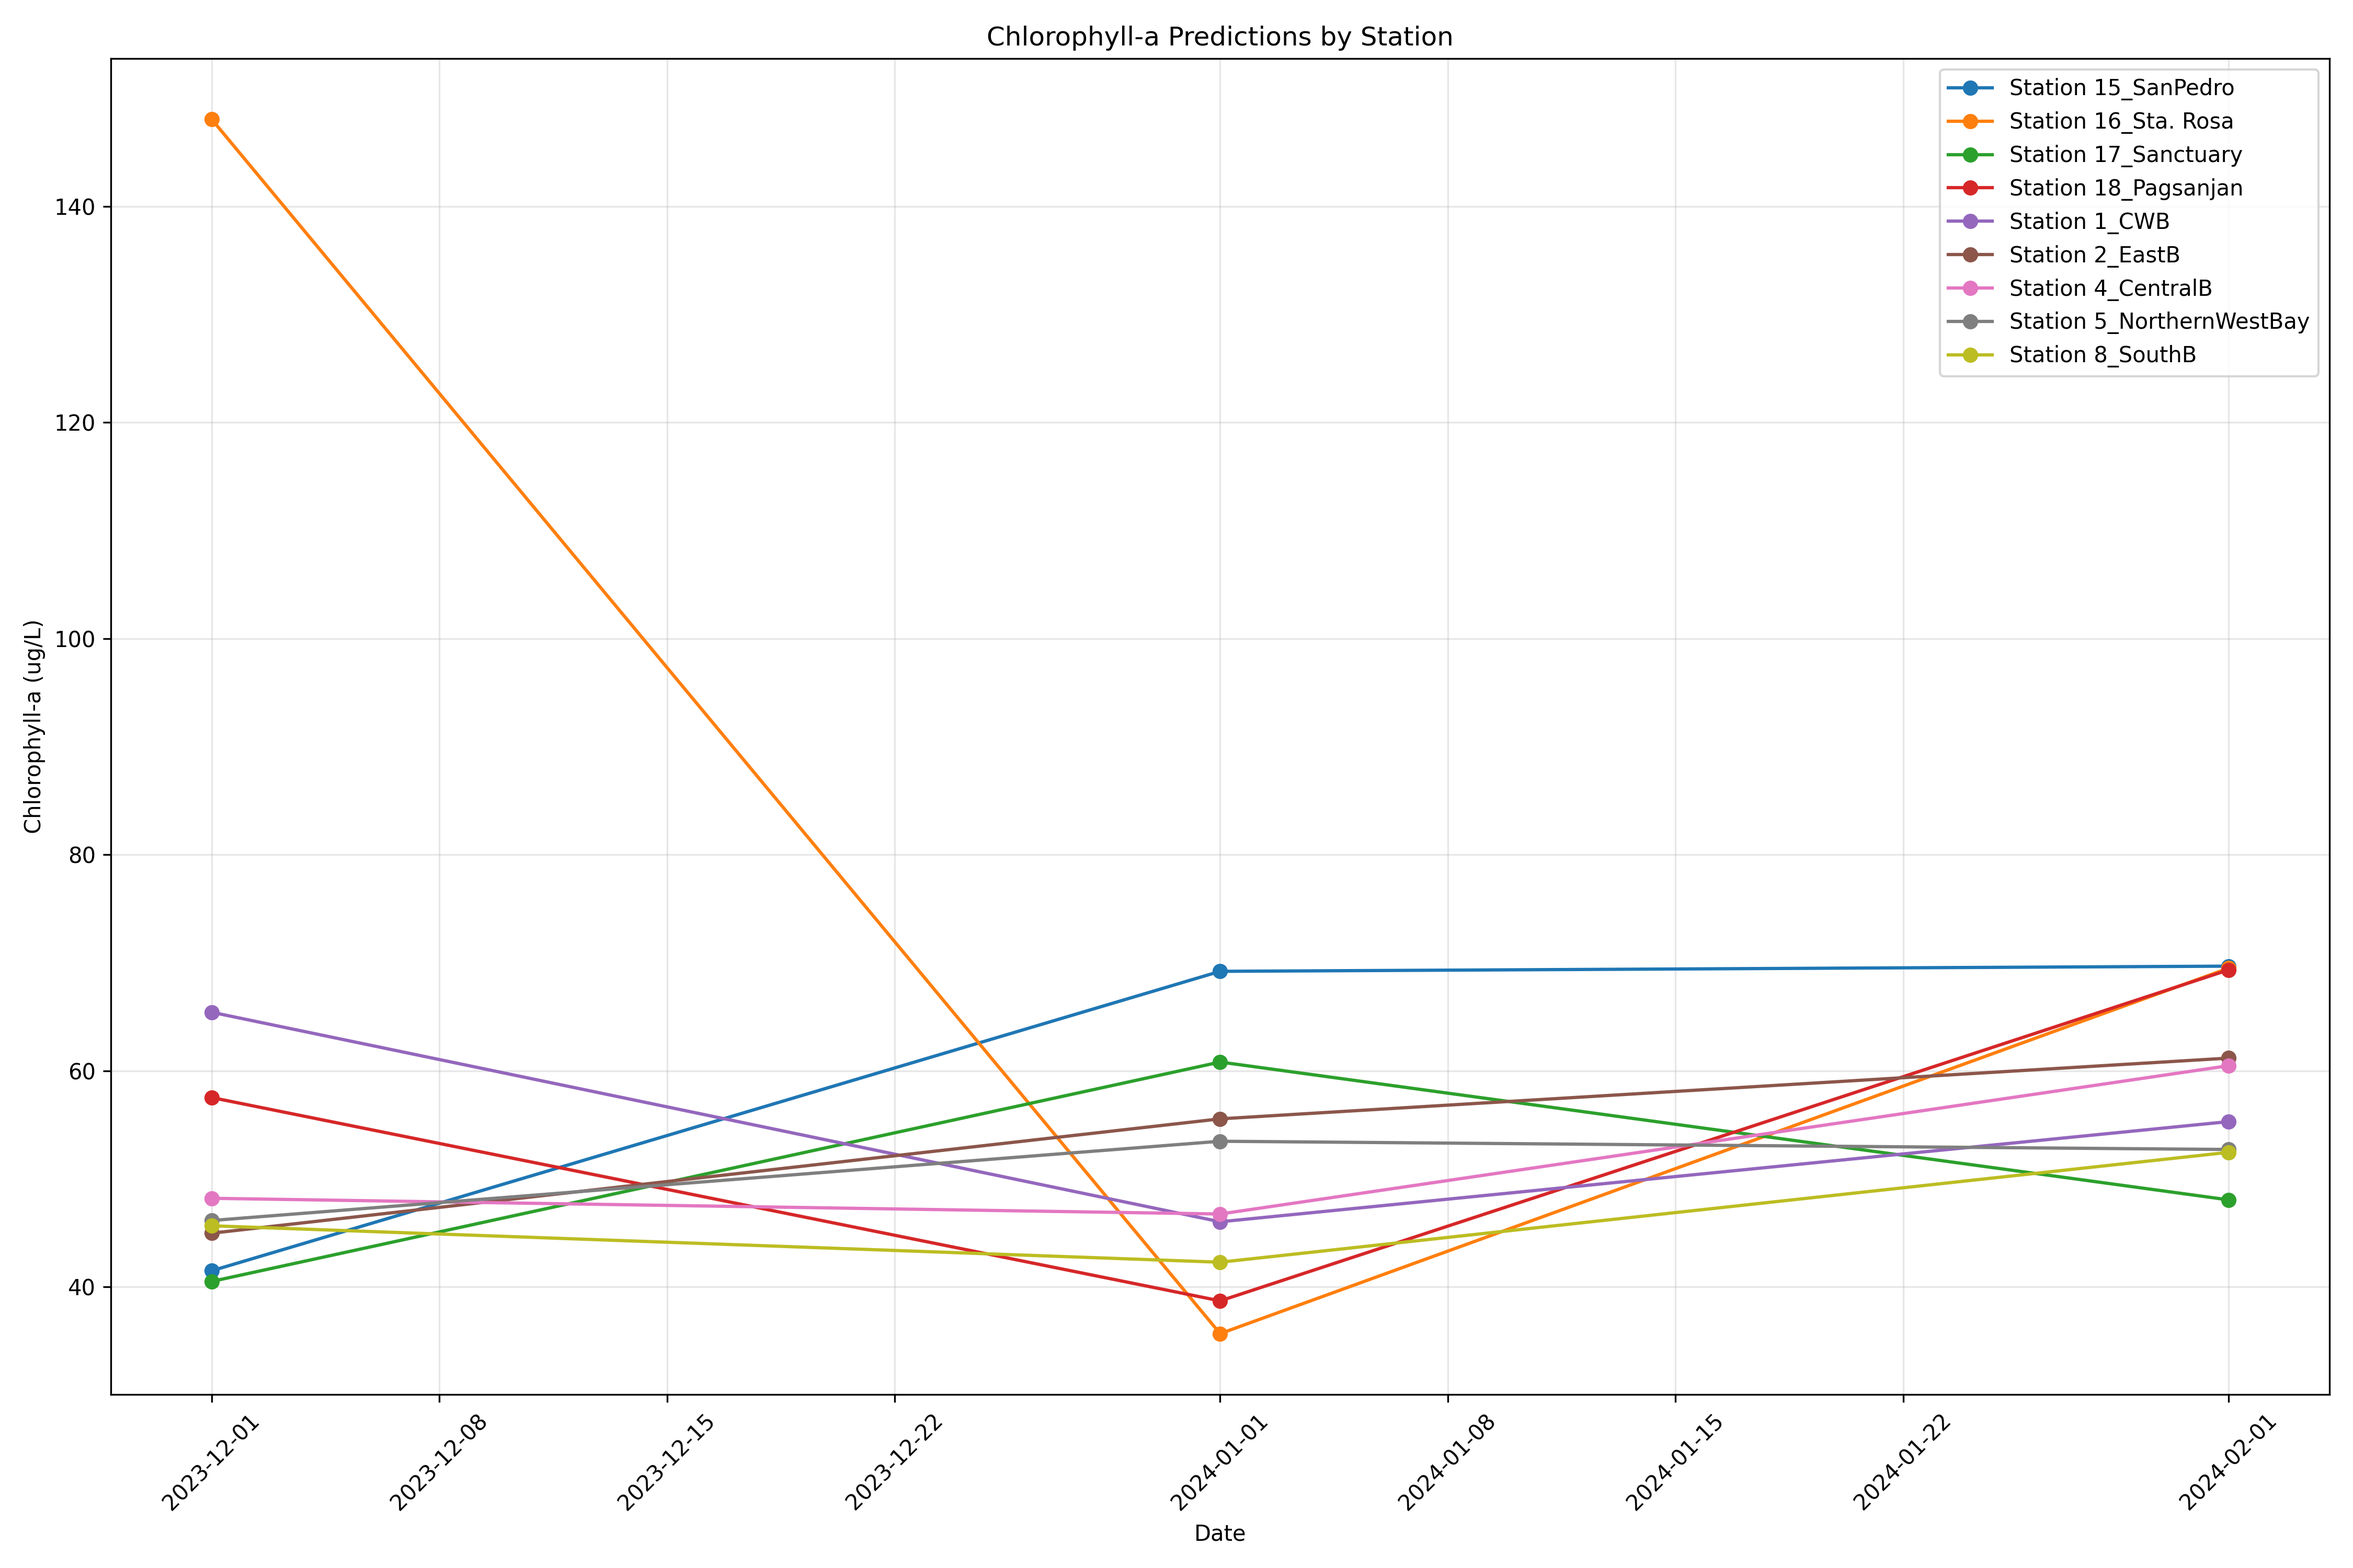
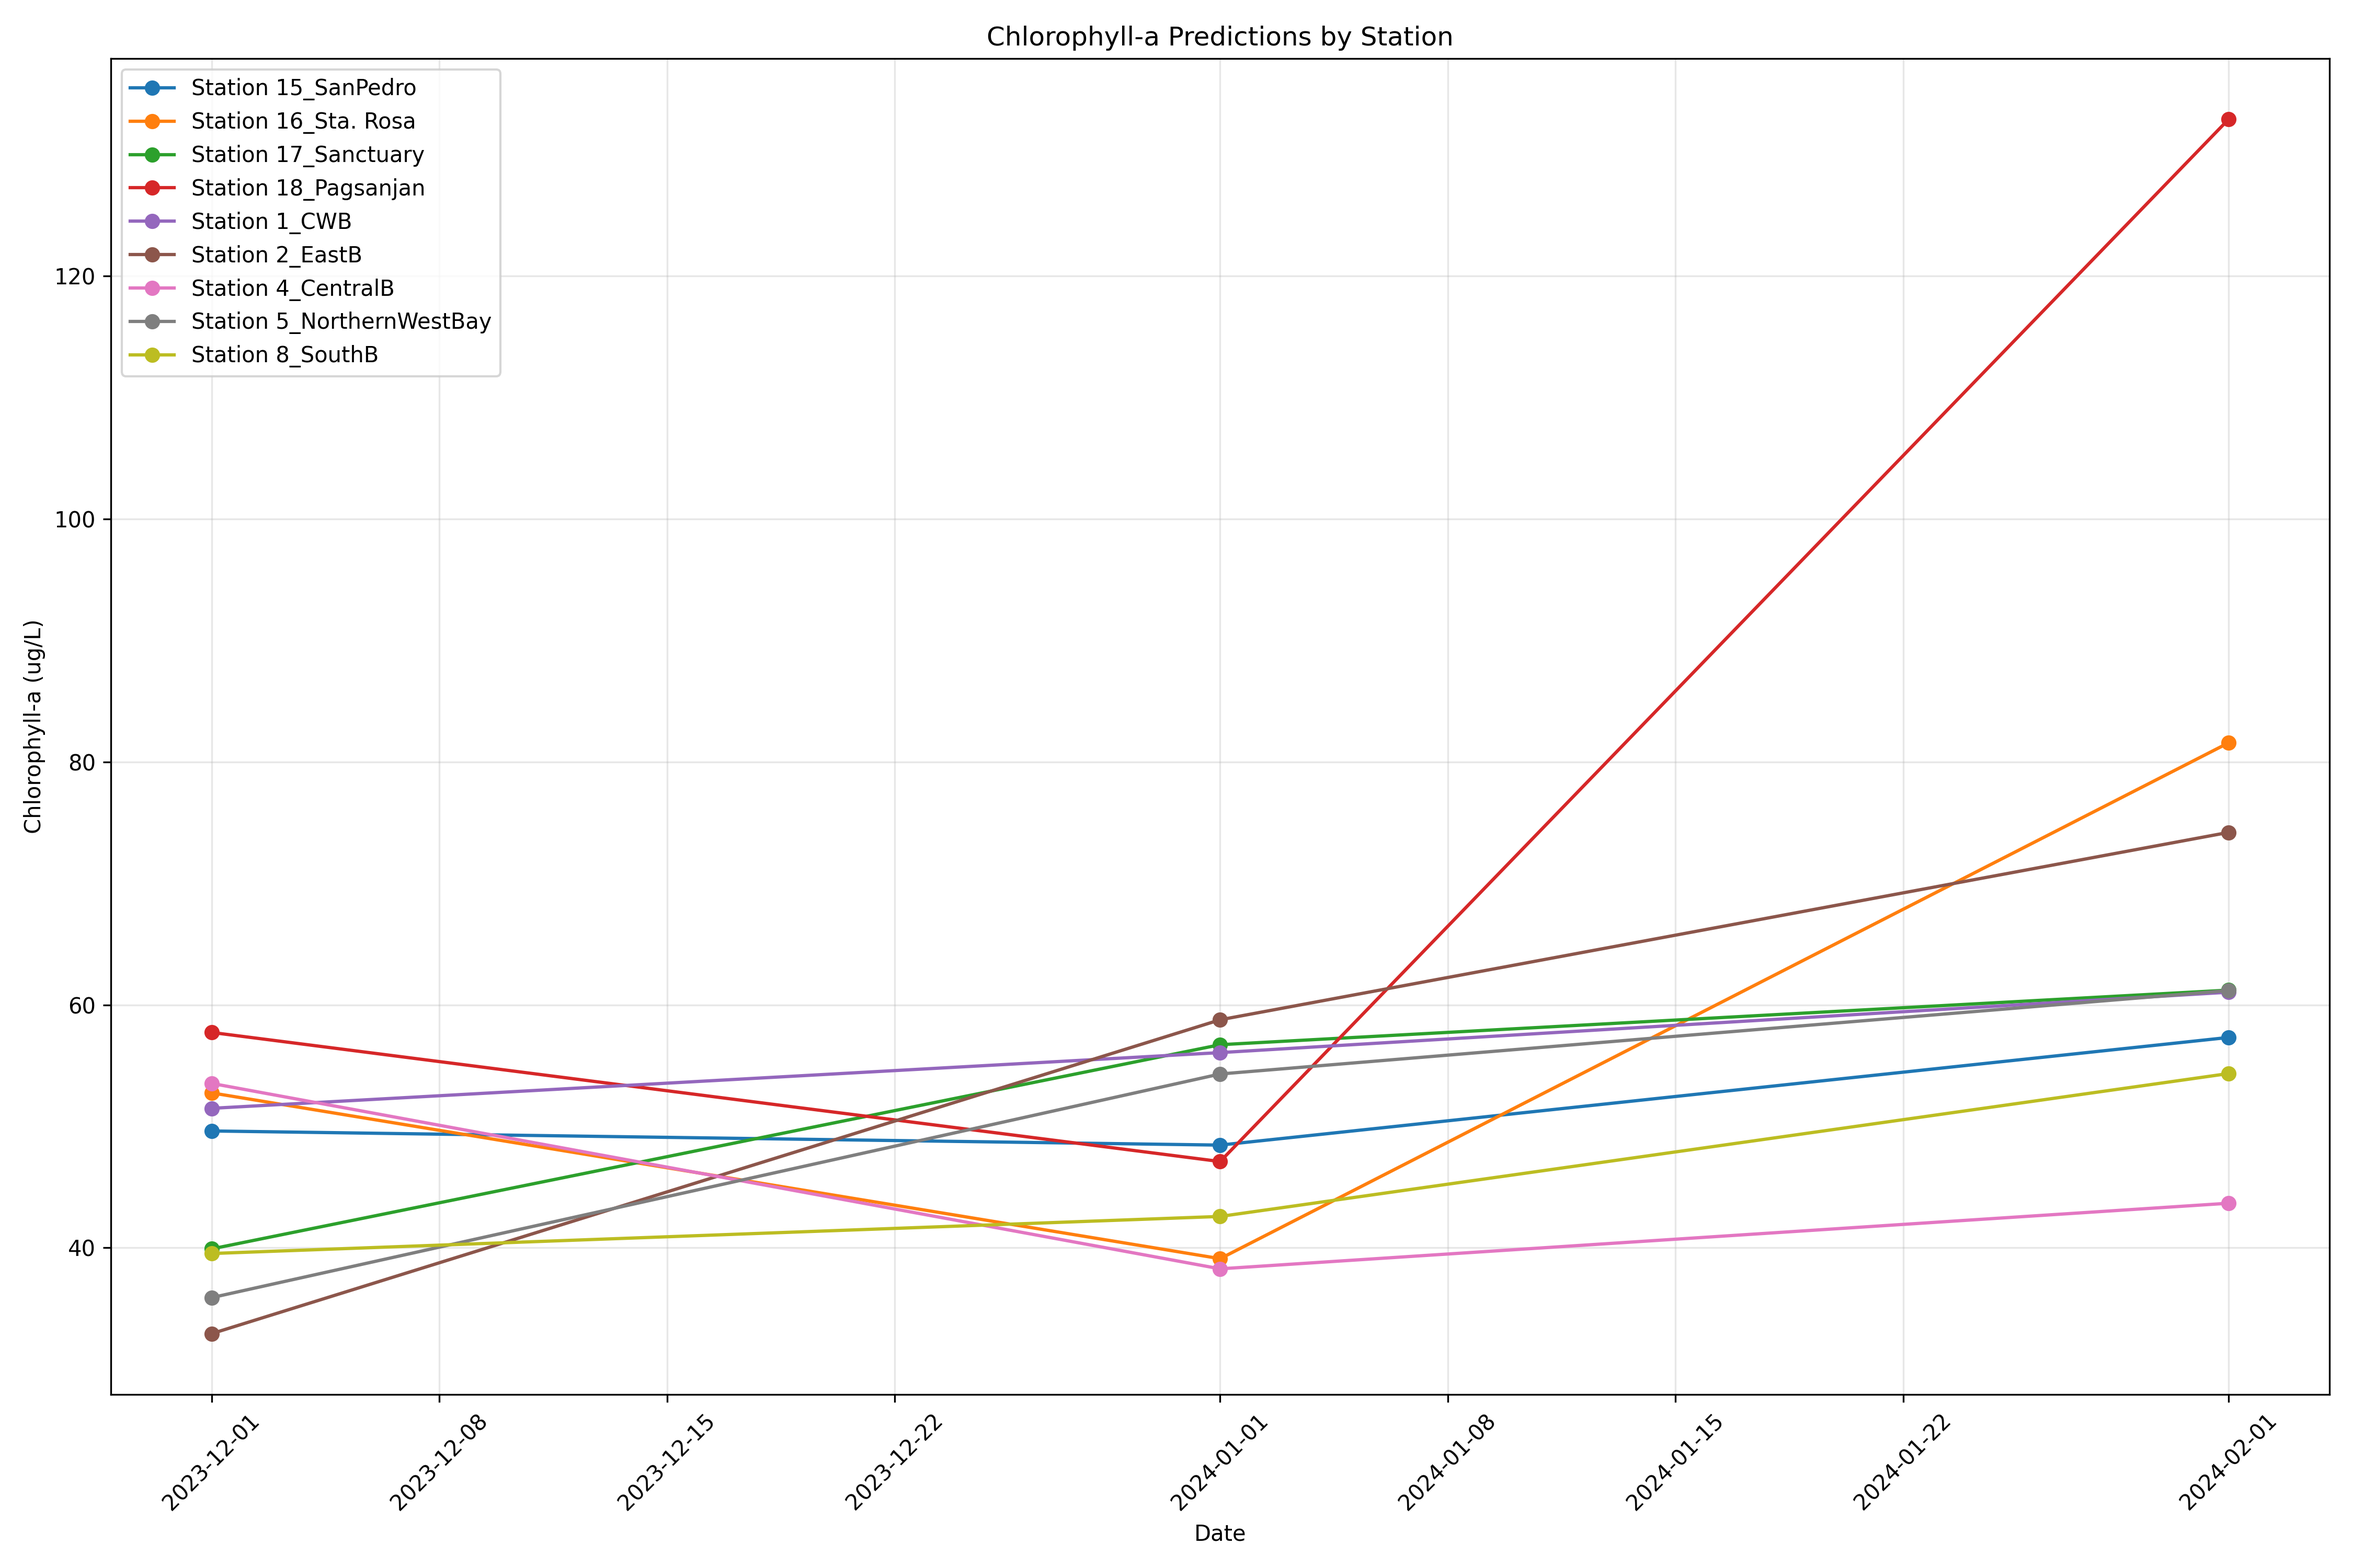
Added extremes switch

diff --git a/prediction.py b/prediction.py
@@ -27,6 +27,9 @@ class PredictionPage(ctk.CTkFrame):
         self.laguna_coords = {"lat": 14.35, "lon": 121.2}
         self.station_coords = []  
         
+        # Add extreme values toggle flag
+        self.use_extreme_values = ctk.BooleanVar(value=True)
+        
         self.data = pd.read_csv("CSV/chlorophyll_predictions_by_station.csv")
         self.data["Date"] = pd.to_datetime(self.data["Date"])
 
@@ -85,14 +88,14 @@ class PredictionPage(ctk.CTkFrame):
             fg_color="#1f6aa5",
 
         )
-        self.year_dropdown.grid(row=0, column=0, padx=5, pady=5)
+        self.year_dropdown.grid(row=0, column=1, padx=5, pady=5)
 
         self.month_label = ctk.CTkLabel(
             self.controls_container,
             text="Month :",
             font=("Segoe UI", 14)
         )
-        self.month_label.grid(row=0, column=1, padx=(10,5), pady=5)
+        self.month_label.grid(row=0, column=2, padx=(10,5), pady=5)
 
         # Month Dropdown
         self.month_var = ctk.StringVar(value=self.data["Month"].iloc[0])
@@ -107,6 +110,29 @@ class PredictionPage(ctk.CTkFrame):
             fg_color = "#1f6aa5",
         )
         self.month_dropdown.grid(row=0, column=3, padx=5, pady=5)
+
+        # Add extreme values toggle switch
+        self.extreme_values_label = ctk.CTkLabel(
+            self.controls_container,
+            text="Use Extreme Values:",
+            font=("Segoe UI", 14)
+        )
+        self.extreme_values_label.grid(row=0, column=4, padx=(20,5), pady=5)
+        
+        self.extreme_values_switch = ctk.CTkSwitch(
+            self.controls_container,
+            text="",
+            variable=self.use_extreme_values,
+            onvalue=True,
+            offvalue=False,
+            width=40,
+            height=20,
+            switch_height=16,
+            switch_width=36,
+            fg_color="#FF5555",
+            progress_color="#1f6aa5"
+        )
+        self.extreme_values_switch.grid(row=0, column=5, padx=5, pady=5)
 
         # Add buttons to the same container
         self.combined_map_button = ctk.CTkButton(
@@ -689,7 +715,11 @@ class PredictionPage(ctk.CTkFrame):
             loading_label.configure(text="Making predictions...")
             self.update()
             future_pred_df = predict_future_values(
-                retrained_model, future_df, selected_features, use_log=True
+                retrained_model, 
+                future_df, 
+                selected_features, 
+                use_log=True,
+                use_extreme_values=self.use_extreme_values.get()  # Pass the extreme values flag
             )
             
             # Add station names column
@@ -717,17 +747,26 @@ class PredictionPage(ctk.CTkFrame):
                 )
                 
                 # Sort by Station and Date
-                future_pred_df = future_pred_df.sort_values(["Station", "Date"])
+            future_pred_df = future_pred_df.sort_values(["Station", "Date"])
             
             # Plot and save results (already sorted)
             loading_label.configure(text="Generating plots and saving results...")
             self.update()
+            
+            # Display whether extreme values are being used
+            extreme_values_status = "enabled" if self.use_extreme_values.get() else "disabled"
+            loading_label.configure(
+                text=f"Generating plots and saving results...\nExtreme values are {extreme_values_status}"
+            )
+            self.update()
+            
             summary = plot_and_save_results(df, future_pred_df, target)
             
             
-            # Show completion message
+            # Show completion message with extreme values status
             loading_label.configure(
-                text="Model execution complete!\nResults saved with Station 1 first.\n"
+                text=f"Model execution complete!\nResults saved with Station 1 first.\n"
+                    f"Extreme values were {extreme_values_status}.\n"
                     "Please click 'Refresh Data' to view updated predictions."
             )
             

diff --git a/chlorophyll_forecaster.py b/chlorophyll_forecaster.py
@@ -644,11 +644,27 @@ def retrain_model_on_full_data(df, features, target, selected_features, model):
     return model, r2, rmse
 
 
-def predict_future_values(model, future_df, selected_features, use_log=True):
+def predict_future_values(model, future_df, selected_features, use_log=True, use_extreme_values=True):
     """
     Make predictions for future values
+    
+    Parameters:
+    -----------
+    model : trained model object
+        The trained machine learning model
+    future_df : pandas DataFrame
+        DataFrame containing future feature values
+    selected_features : list
+        List of selected features for the model
+    use_log : bool, default=True
+        Whether to use logarithmic transformation
+    use_extreme_values : bool, default=True
+        Whether to include extreme values in predictions or cap them
     """
     print("\n=== Making future predictions ===")
+    
+    # Show extreme values setting
+    print(f"Extreme values setting: {'enabled' if use_extreme_values else 'disabled'}")
 
     # Prepare features for prediction
     X_future = future_df[selected_features].copy()
@@ -676,6 +692,27 @@ def predict_future_values(model, future_df, selected_features, use_log=True):
     # Transform back if log was used
     if use_log:
         future_pred = np.expm1(future_pred)
+    
+    # Handle extreme values if configured not to use them
+    if not use_extreme_values:
+        # Cap predictions to reasonable range
+        # Chlorophyll typically ranges between 0-200 μg/L in lake waters
+        # Values above 150 μg/L generally indicate algal blooms
+        max_reasonable_value = 150.0
+        
+        # Apply capping
+        original_predictions = future_pred.copy()
+        future_pred = np.clip(future_pred, 0, max_reasonable_value)
+        
+        # Log info about capped values
+        num_capped = np.sum(original_predictions > max_reasonable_value)
+        if num_capped > 0:
+            print(f"Capped {num_capped} extreme predictions to {max_reasonable_value} μg/L")
+            
+            # Log some details about the most extreme values
+            extreme_indices = np.where(original_predictions > max_reasonable_value)[0]
+            for idx in extreme_indices[:min(5, len(extreme_indices))]:  # Show up to 5 examples
+                print(f"  Original: {original_predictions[idx]:.2f} μg/L → Capped: {future_pred[idx]:.2f} μg/L")
 
     # Add predictions to future dataframe
     future_df['Predicted_Chlorophyll'] = future_pred
@@ -767,12 +804,7 @@ def plot_and_save_results(df, future_pred_df, target='Chlorophyll-a (ug/L)'):
         plt.xticks(rotation=45)
         plt.tight_layout()
 
-        # Save the multi-station plot
-        plt.savefig('CSV/chlorophyll_predictions_by_station.png', dpi=300)
-        print("Station-specific plot saved as 'chlorophyll_predictions_by_station.png'")
 
-        # Show the plot
-        plt.show()
 
     # Print summary of predictions
     print("\n=== Summary of Future Predictions ===")

diff --git a/main.py b/main.py
@@ -44,7 +44,7 @@ class Main(ctk.CTk):
         self.minsize(800, 600)
         self.propagate(False)
         self.rowconfigure(0, weight=1)
-        self.columnconfigure(1, weight=1)  # Important: Make sure the main content column expands
+        self.columnconfigure(1, weight=1)
 
         # Mainframe
         self.mainFrame = ctk.CTkFrame(self, width=(self.winfo_width() - 100), height=self.winfo_height(),
